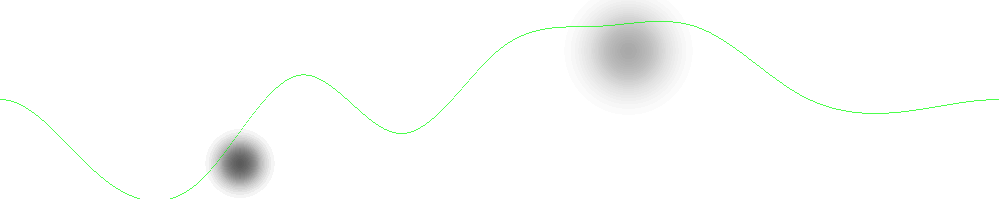
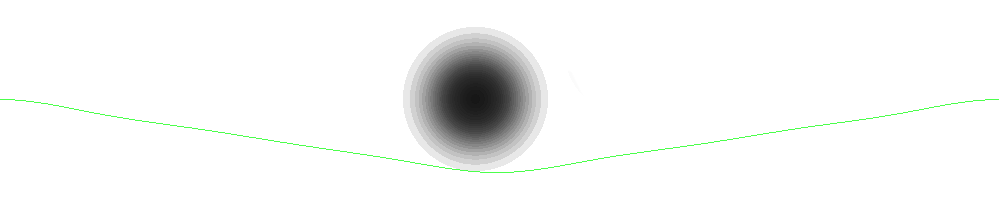
Minor improvements

diff --git a/main.py b/main.py
@@ -433,6 +433,26 @@ class VehicleTrajectoryBuilder:
 
         return x, y
 
+    def _try_alternative_trajectory(self, new_x, new_y, miles, force = False):
+        """
+        Tries alternative trajectory.
+        If the quality along the new trajectory is higher, or if forced,
+        the spline is rebuilt along the new trajectory.
+        Otherwise, the spline is not changed.
+        Return True if the spline was changed, False otherwise.
+        """
+        cur_x = copy.deepcopy(self._sb._x)
+        cur_y = copy.deepcopy(self._sb._y)
+
+        self._sb.build(new_x, new_y, self._dfl, self._dfr)
+        new_qat = self._quality_along_trajectory(miles)
+        if new_qat > self._qat or force:
+            self._qat = new_qat
+            return True
+        else:
+            self._sb.build(cur_x, cur_y, self._dfl, self._dfr)
+            return False
+
     def _quality_along_trajectory(self, miles):
         """
         Calculates the quality of current trajectory (defined by spline).
@@ -460,29 +480,9 @@ class VehicleTrajectoryBuilder:
         # The more - the better.
         # Q1: [0.0 .. miles]
         # Q2: [qfb.w .. sinusoidal_length]
-        res = 100.0 * Q1 - Q2 / self._qfb.w * miles
+        res = Q1 - Q2 / self._qfb.w * miles * 1.0
 
         return res
-
-    def _try_alternative_trajectory(self, new_x, new_y, miles, force = False):
-        """
-        Tries alternative trajectory.
-        If the quality along the new trajectory is higher, or if forced,
-        the spline is rebuilt along the new trajectory.
-        Otherwise, the spline is not changed.
-        Return True if the spline was changed, False otherwise.
-        """
-        cur_x = copy.deepcopy(self._sb._x)
-        cur_y = copy.deepcopy(self._sb._y)
-
-        self._sb.build(new_x, new_y, self._dfl, self._dfr)
-        new_qat = self._quality_along_trajectory(miles)
-        if new_qat > self._qat or force:
-            self._qat = new_qat
-            return True
-        else:
-            self._sb.build(cur_x, cur_y, self._dfl, self._dfr)
-            return False
 
     def train_trajectory(self, points = 10, miles_per_point = 10):
         """
@@ -520,7 +520,7 @@ class VehicleTrajectoryBuilder:
                 if upd:
                     print "Jump = {}, quality = {}".format(jump_step, self._qat)
                     # self.show()
-            jump_step /= 2.0
+            jump_step *= 0.75
 
         self._trained = True
 
@@ -565,7 +565,7 @@ class VehicleTrajectoryBuilder:
         for i in xrange(w):
             for j in xrange(h):
                 px, py = i * 1.0 / scale, j * 1.0 / scale
-                R, G, B = [int(self._qfb.Q(px, py))] * 3
+                R, G, B = [int(self._qfb.Q(px, py) * 255.0)] * 3
                 pix[i, j] = (R, G, B)
 
         # Drawing the trajectory
@@ -678,24 +678,13 @@ class Tester:
 
     def test_train_trajectory(self):
         qfb = QualityFunctionBuilder()
-        qfb.load_from_image('samples/2_holes.png')
+        qfb.load_from_image('samples/1_massive_hole.png')
         car = CarBuilder()
         vtb = VehicleTrajectoryBuilder(qfb, car)
         
         vtb.train_trajectory()
-        
-        axis_x = np.linspace(0, qfb.w, qfb.w)
-        axis_y = np.linspace(0, qfb.h, qfb.h)
-        img = [[vtb.Q(x, y) for x in axis_x] for y in axis_y]
-        plt.imshow(img)
-
-        x = np.linspace(0, qfb.w, qfb.w)
-        y = [vtb.f(xi) for xi in x]
-        plt.plot(x, y, 'g')
-
-        plt.plot(vtb._sb._x, vtb._sb._y, 'bo')
-
-        plt.show()
+        vtb.show()
+        vtb.save_to_file('samples/result.png')
 
 def main(filename):
     qfb = QualityFunctionBuilder()
